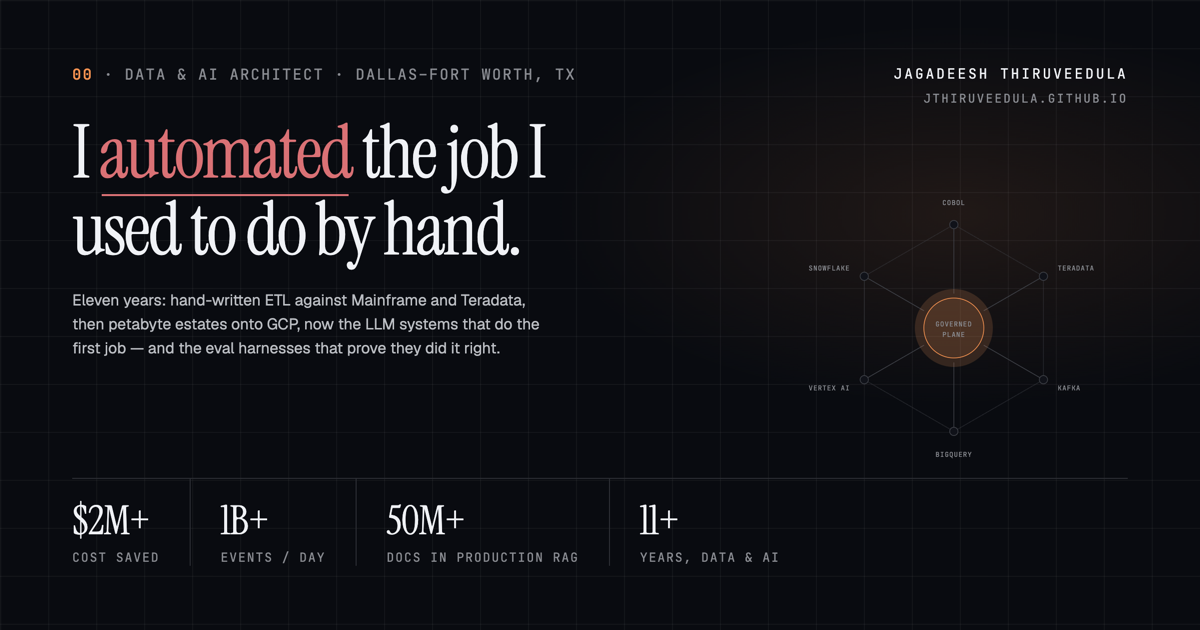
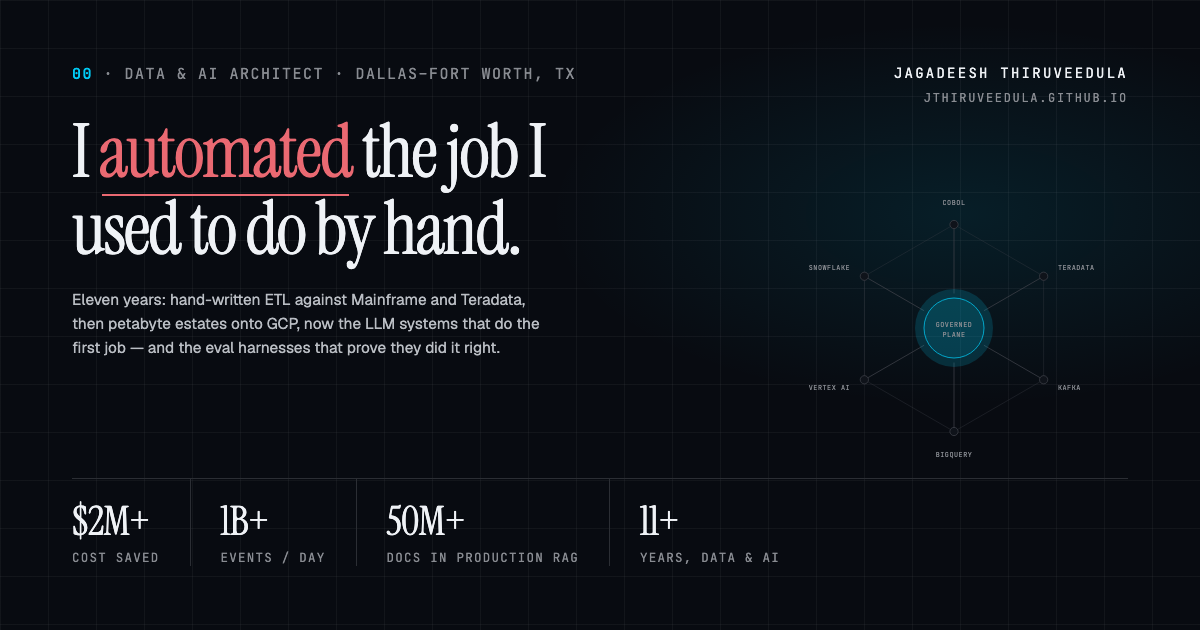
fix(design): finish the palette migration — scene grading and og-image (#269)
Follow-up from #198 (PR #236), which fixed the site's UI-chrome hex values
but deliberately left two things out of scope:

- src/data/scenes.ts: the ACCENT map and each scene's per-scene accent hex
  still carried the retired v5 era palette (amber #f59e0b legacy, cyan
  #22d3ee cloud, violet #a78bfa AI). Rehued to the current era tokens from
  globals.css — grey (--color-legacy/--color-cloud) resolving into azure
  (--color-accent) — matching the field's own docstring, which already
  claimed to match the era tokens.
- scripts/grade-scenes.mjs: the 'brass' LUT ramp baked the retired molten-
  brass hue (oklch(76% 0.17 50), rgb 255,140,63) directly into the scene
  plates' pixels at build time. Renamed to 'azure' and rehued its stops to
  the current --color-accent/--color-accent-800 hue (215°); the 'coral'
  ramp was already correct (v7.4 rehue), left untouched.
- public/og-image.source.html (the actual source the live PNG is captured
  from, per its own comment and README) still had its azure accent — the
  topology apparatus glow/core, eyebrow numeral, and background wash — on
  the retired hue 50; only the coral headline chord had been updated.
  Rehued to 215 and re-rendered public/og-image.png from it (1200x630,
  verified).
- public/og-image.svg had diverged from the live PNG (different headline
  copy) and was still on the retired hex #ff8c3f in six places, while its
  own comment and README both called it 'the source of record' alongside
[…]

diff --git a/src/data/scenes.ts b/src/data/scenes.ts
@@ -8,8 +8,9 @@ import type { Era, Metric } from './types'
  * shared style preamble so the whole flight reads as one world — see SCENE_PLAN.md
  * for the prompts and ASSET_MANIFEST.md for the asset mapping.
  *
- * `era` drives the accent tint; the flight crossfades amber → cyan → violet so no
- * scene boundary is a hard colour cut.
+ * `era` drives the accent tint; the flight crossfades grey → grey → azure (legacy
+ * and cloud are grey steps, AI carries the single accent hue) so no scene boundary
+ * is a hard colour cut.
  */
 export interface WorldScene {
   id: string
@@ -43,9 +44,9 @@ export interface WorldScene {
 }
 
 export const ACCENT: Record<Era, string> = {
-  legacy: '#f59e0b',
-  cloud: '#22d3ee',
-  ai: '#a78bfa',
+  legacy: '#66696f', // oklch(52% 0.011 263) === --color-legacy
+  cloud: '#9b9ea4', // oklch(70% 0.009 262) === --color-cloud
+  ai: '#00caf4', // oklch(76% 0.17 215) === --color-accent / --color-ai
 }
 
 export const worldScenes: WorldScene[] = [
@@ -53,7 +54,7 @@ export const worldScenes: WorldScene[] = [
     id: 'ingress',
     label: 'Origin',
     era: 'cloud',
-    accent: '#22d3ee',
+    accent: '#9b9ea4',
     still: '/scenes/01-ingress.jpg',
     stillMobile: '/scenes/01-ingress@sm.jpg',
     eyebrow: 'Jagadeesh Thiruveedula · Dallas–Fort Worth, TX',
@@ -81,7 +82,7 @@ export const worldScenes: WorldScene[] = [
     id: 'legacy-substrate',
     label: 'Legacy',
     era: 'legacy',
-    accent: '#f59e0b',
+    accent: '#66696f',
     still: '/scenes/02-legacy-substrate.jpg',
     stillMobile: '/scenes/02-legacy-substrate@sm.jpg',
     eyebrow: '2015 – 2019 · Legacy Systems',
@@ -100,7 +101,7 @@ export const worldScenes: WorldScene[] = [
     id: 'great-migration',
     label: 'Migration',
     era: 'cloud',
-    accent: '#22d3ee',
+    accent: '#9b9ea4',
     still: '/scenes/03-great-migration.jpg',
     stillMobile: '/scenes/03-great-migration@sm.jpg',
     eyebrow: '2019 – 2022 · Charles Schwab',
@@ -119,7 +120,7 @@ export const worldScenes: WorldScene[] = [
     id: 'governed-realtime',
     label: 'Realtime',
     era: 'cloud',
-    accent: '#22d3ee',
+    accent: '#9b9ea4',
     still: '/scenes/04-governed-realtime.jpg',
     stillMobile: '/scenes/04-governed-realtime@sm.jpg',
     eyebrow: '2022 – 2024 · HCA Healthcare · NRG Energy',
@@ -138,7 +139,7 @@ export const worldScenes: WorldScene[] = [
     id: 'translation-engine',
     label: 'Translation',
     era: 'ai',
-    accent: '#a78bfa',
+    accent: '#00caf4',
     still: '/scenes/05-translation-engine.jpg',
     stillMobile: '/scenes/05-translation-engine@sm.jpg',
     eyebrow: '2024 – 2025 · Definity',
@@ -155,7 +156,7 @@ export const worldScenes: WorldScene[] = [
     id: 'grounded-mind',
     label: 'Grounded AI',
     era: 'ai',
-    accent: '#a78bfa',
+    accent: '#00caf4',
     still: '/scenes/06-grounded-mind.jpg',
     stillMobile: '/scenes/06-grounded-mind@sm.jpg',
     eyebrow: '2025 – present · John Wiley & Sons',

diff --git a/public/og-image.source.html b/public/og-image.source.html
@@ -12,7 +12,7 @@
     background:
       linear-gradient(oklch(96% 0.006 262 / 0.045) 1px, transparent 1px) 0 0 / 48px 48px,
       linear-gradient(90deg, oklch(96% 0.006 262 / 0.045) 1px, transparent 1px) 0 0 / 48px 48px,
-      radial-gradient(52% 46% at 80% 34%, oklch(76% 0.17 50 / 0.10) 0%, transparent 66%),
+      radial-gradient(52% 46% at 80% 34%, oklch(76% 0.17 215 / 0.10) 0%, transparent 66%),
       oklch(15% 0.014 265);
     color: oklch(80% 0.009 262);
     font-family: 'Geist', system-ui, sans-serif;
@@ -24,7 +24,7 @@
     font-family: 'JetBrains Mono', monospace; font-size: 15px; letter-spacing: 0.1em;
     text-transform: uppercase; color: oklch(64% 0.010 262);
   }
-  .eyebrow b { color: oklch(76% 0.17 50); font-weight: 500; }
+  .eyebrow b { color: oklch(76% 0.17 215); font-weight: 500; }
   .figure {
     font-family: 'Instrument Serif', Georgia, serif; font-weight: 400;
     font-size: 132px; line-height: 0.9; letter-spacing: -0.03em;
@@ -68,8 +68,8 @@
   svg.app { position: absolute; right: 96px; top: 178px; width: 300px; height: 300px; overflow: visible; }
   .edge { stroke: oklch(38% 0.013 265); stroke-width: 1; fill: none; }
   .node { fill: oklch(18.5% 0.015 265); stroke: oklch(38% 0.013 265); stroke-width: 1; }
-  .core { fill: oklch(76% 0.17 50 / 0.10); stroke: oklch(76% 0.17 50); }
-  .glow { fill: oklch(80% 0.16 50 / 0.16); }
+  .core { fill: oklch(76% 0.17 215 / 0.10); stroke: oklch(76% 0.17 215); }
+  .glow { fill: oklch(80% 0.16 215 / 0.16); }
   .lbl {
     font-family: 'JetBrains Mono', monospace; font-size: 9px; letter-spacing: 0.08em;
     text-transform: uppercase; fill: oklch(64% 0.010 262);
@@ -116,7 +116,7 @@
     })
     add('circle', { class: 'glow', cx: CX, cy: CY, r: 52 })
     add('circle', { class: 'node core', cx: CX, cy: CY, r: 40 })
-    add('text', { class: 'lbl', x: CX, y: CY - 2, 'text-anchor': 'middle', fill: 'oklch(76% 0.17 50)' }, 'GOVERNED')
+    add('text', { class: 'lbl', x: CX, y: CY - 2, 'text-anchor': 'middle', fill: 'oklch(76% 0.17 215)' }, 'GOVERNED')
     add('text', { class: 'lbl', x: CX, y: CY + 12, 'text-anchor': 'middle' }, 'PLANE')
     for (const [label, a] of NODES) {
       const [x, y] = at(a, R)

diff --git a/index.html b/index.html
@@ -30,8 +30,8 @@
     />
     <meta property="og:url" content="https://jthiruveedula.github.io/" />
     <!-- PNG, not SVG. LinkedIn, X, Slack, WhatsApp and Facebook do not render SVG in link
-         previews, so pointing these at og-image.svg produced a blank card everywhere this
-         URL actually gets shared. Rendered from og-image.svg at exactly 1200x630. -->
+         previews, so pointing these at an SVG produced a blank card everywhere this URL
+         actually gets shared. Captured from public/og-image.source.html at exactly 1200x630. -->
     <meta property="og:image" content="https://jthiruveedula.github.io/og-image.png" />
     <meta property="og:image:type" content="image/png" />
     <meta property="og:image:width" content="1200" />

diff --git a/README.md b/README.md
@@ -210,9 +210,9 @@ stamp at the top of `src/styles/globals.css` is the durable record and
 - `public/robots.txt` and `public/sitemap.xml` are published to the site root for crawler discovery.
 - `public/og-image.png` (1200×630) backs the OpenGraph + Twitter `summary_large_image`
   cards declared in `index.html`. It is a raster on purpose — LinkedIn, X, Slack, WhatsApp
-  and Facebook all render a blank card for an SVG. `public/og-image.svg` is the editable
-  source of record and `public/og-image.source.html` is the live-webfont render the PNG is
-  captured from.
+  and Facebook all render a blank card for an SVG. `public/og-image.source.html` is the
+  editable source of record — a live-webfont HTML page screenshotted at exactly 1200x630
+  to produce the PNG.
 
 ## Customization (swap in your own data)
 
